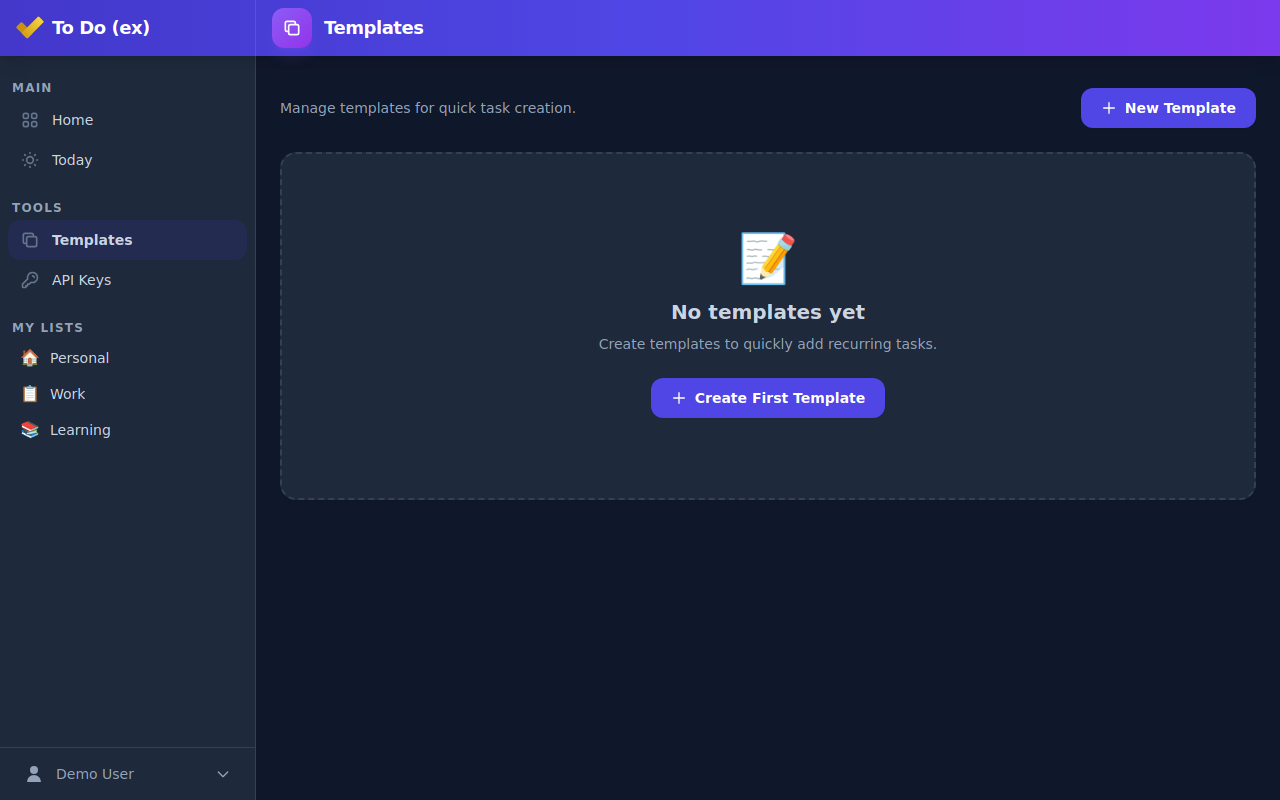
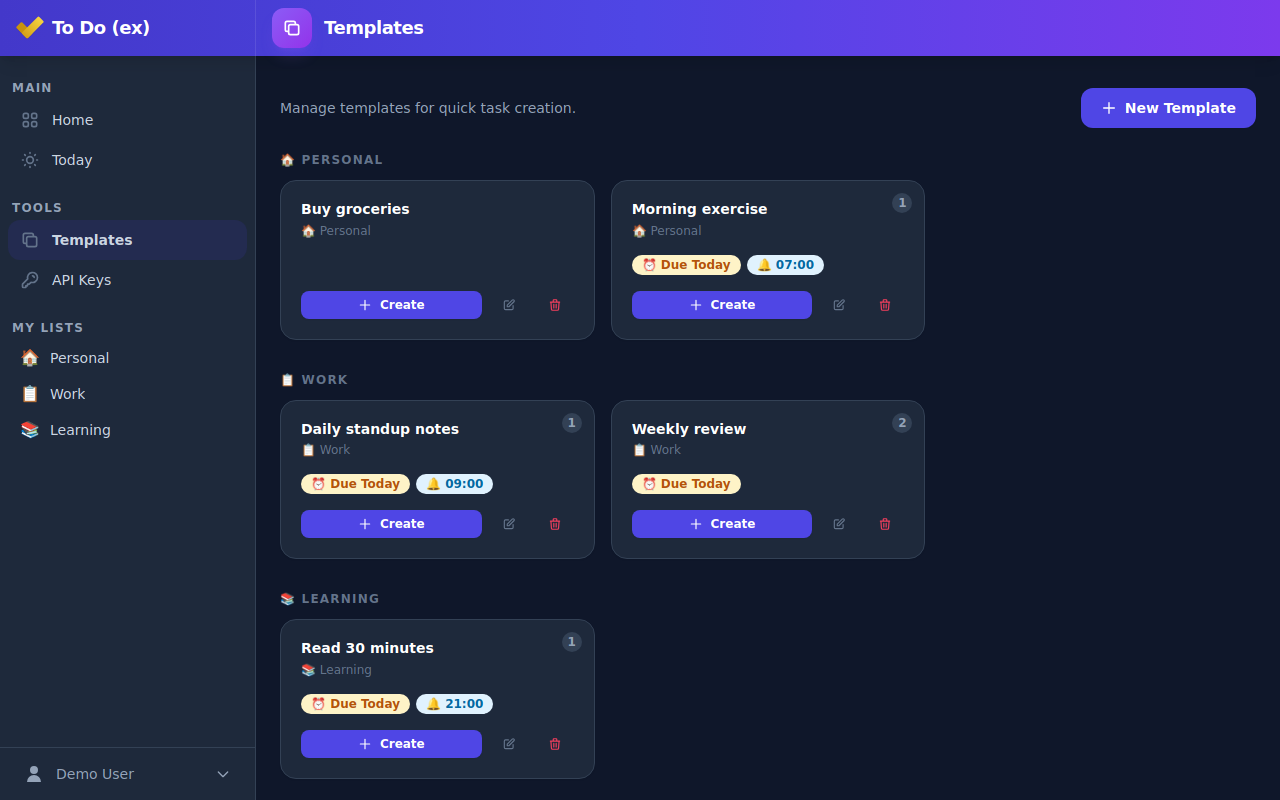
Seed demo data for API Keys and Templates screens (#32)

diff --git a/src/TodoExtended.Web/Program.cs b/src/TodoExtended.Web/Program.cs
@@ -161,7 +161,7 @@ using (var scope = app.Services.CreateScope())
     {
         if (!db.Users.Any(u => u.Id == "demo-user"))
         {
-            db.Users.Add(new TodoExtended.Web.Data.User
+            db.Users.Add(new User
             {
                 Id = "demo-user",
                 Email = "demo@example.com",
@@ -169,6 +169,105 @@ using (var scope = app.Services.CreateScope())
                 CreatedUtc = DateTime.UtcNow,
                 LastSeenUtc = DateTime.UtcNow
             });
+            db.SaveChanges();
+        }
+
+        // Seed demo API keys so the API Keys screen shows something
+        if (!db.ApiKeys.Any(k => k.UserId == "demo-user"))
+        {
+            var now = DateTime.UtcNow;
+            static string HashKey(string key) =>
+                Convert.ToHexString(System.Security.Cryptography.SHA256.HashData(System.Text.Encoding.UTF8.GetBytes(key))).ToLowerInvariant();
+
+            db.ApiKeys.AddRange(
+                new ApiKey
+                {
+                    UserId = "demo-user",
+                    Name = "Garmin Watch",
+                    KeyHash = HashKey("tek_demo_garmin_placeholder"),
+                    CreatedUtc = now.AddMonths(-3),
+                    LastUsedUtc = now.AddDays(-7),
+                    IsRevoked = false
+                },
+                new ApiKey
+                {
+                    UserId = "demo-user",
+                    Name = "Mobile App",
+                    KeyHash = HashKey("tek_demo_mobile_placeholder"),
+                    CreatedUtc = now.AddMonths(-1),
+                    LastUsedUtc = now.AddDays(-1),
+                    IsRevoked = false
+                },
+                new ApiKey
+                {
+                    UserId = "demo-user",
+                    Name = "Home Automation",
+                    KeyHash = HashKey("tek_demo_home_placeholder"),
+                    CreatedUtc = now.AddDays(-14),
+                    LastUsedUtc = null,
+                    IsRevoked = false
+                }
+            );
+            db.SaveChanges();
+        }
+
+        // Seed demo templates so the Templates screen shows something
+        if (!db.TaskTemplates.Any())
+        {
+            const string WorkListId = "demo-list-work";
+            const string WorkListName = "📋 Work";
+            const string PersonalListId = "demo-list-personal";
+            const string PersonalListName = "🏠 Personal";
+            const string LearningListId = "demo-list-learning";
+            const string LearningListName = "📚 Learning";
+
+            db.TaskTemplates.AddRange(
+                new TaskTemplate
+                {
+                    Title = "Daily standup notes",
+                    TaskListId = WorkListId,
+                    TaskListName = WorkListName,
+                    DueDateToday = true,
+                    ReminderTime = new TimeOnly(9, 0),
+                    SortOrder = 1
+                },
+                new TaskTemplate
+                {
+                    Title = "Weekly review",
+                    TaskListId = WorkListId,
+                    TaskListName = WorkListName,
+                    DueDateToday = true,
+                    ReminderTime = null,
+                    SortOrder = 2
+                },
+                new TaskTemplate
+                {
+                    Title = "Buy groceries",
+                    TaskListId = PersonalListId,
+                    TaskListName = PersonalListName,
+                    DueDateToday = false,
+                    ReminderTime = null,
+                    SortOrder = 0
+                },
+                new TaskTemplate
+                {
+                    Title = "Morning exercise",
+                    TaskListId = PersonalListId,
+                    TaskListName = PersonalListName,
+                    DueDateToday = true,
+                    ReminderTime = new TimeOnly(7, 0),
+                    SortOrder = 1
+                },
+                new TaskTemplate
+                {
+                    Title = "Read 30 minutes",
+                    TaskListId = LearningListId,
+                    TaskListName = LearningListName,
+                    DueDateToday = true,
+                    ReminderTime = new TimeOnly(21, 0),
+                    SortOrder = 1
+                }
+            );
             db.SaveChanges();
         }
     }
